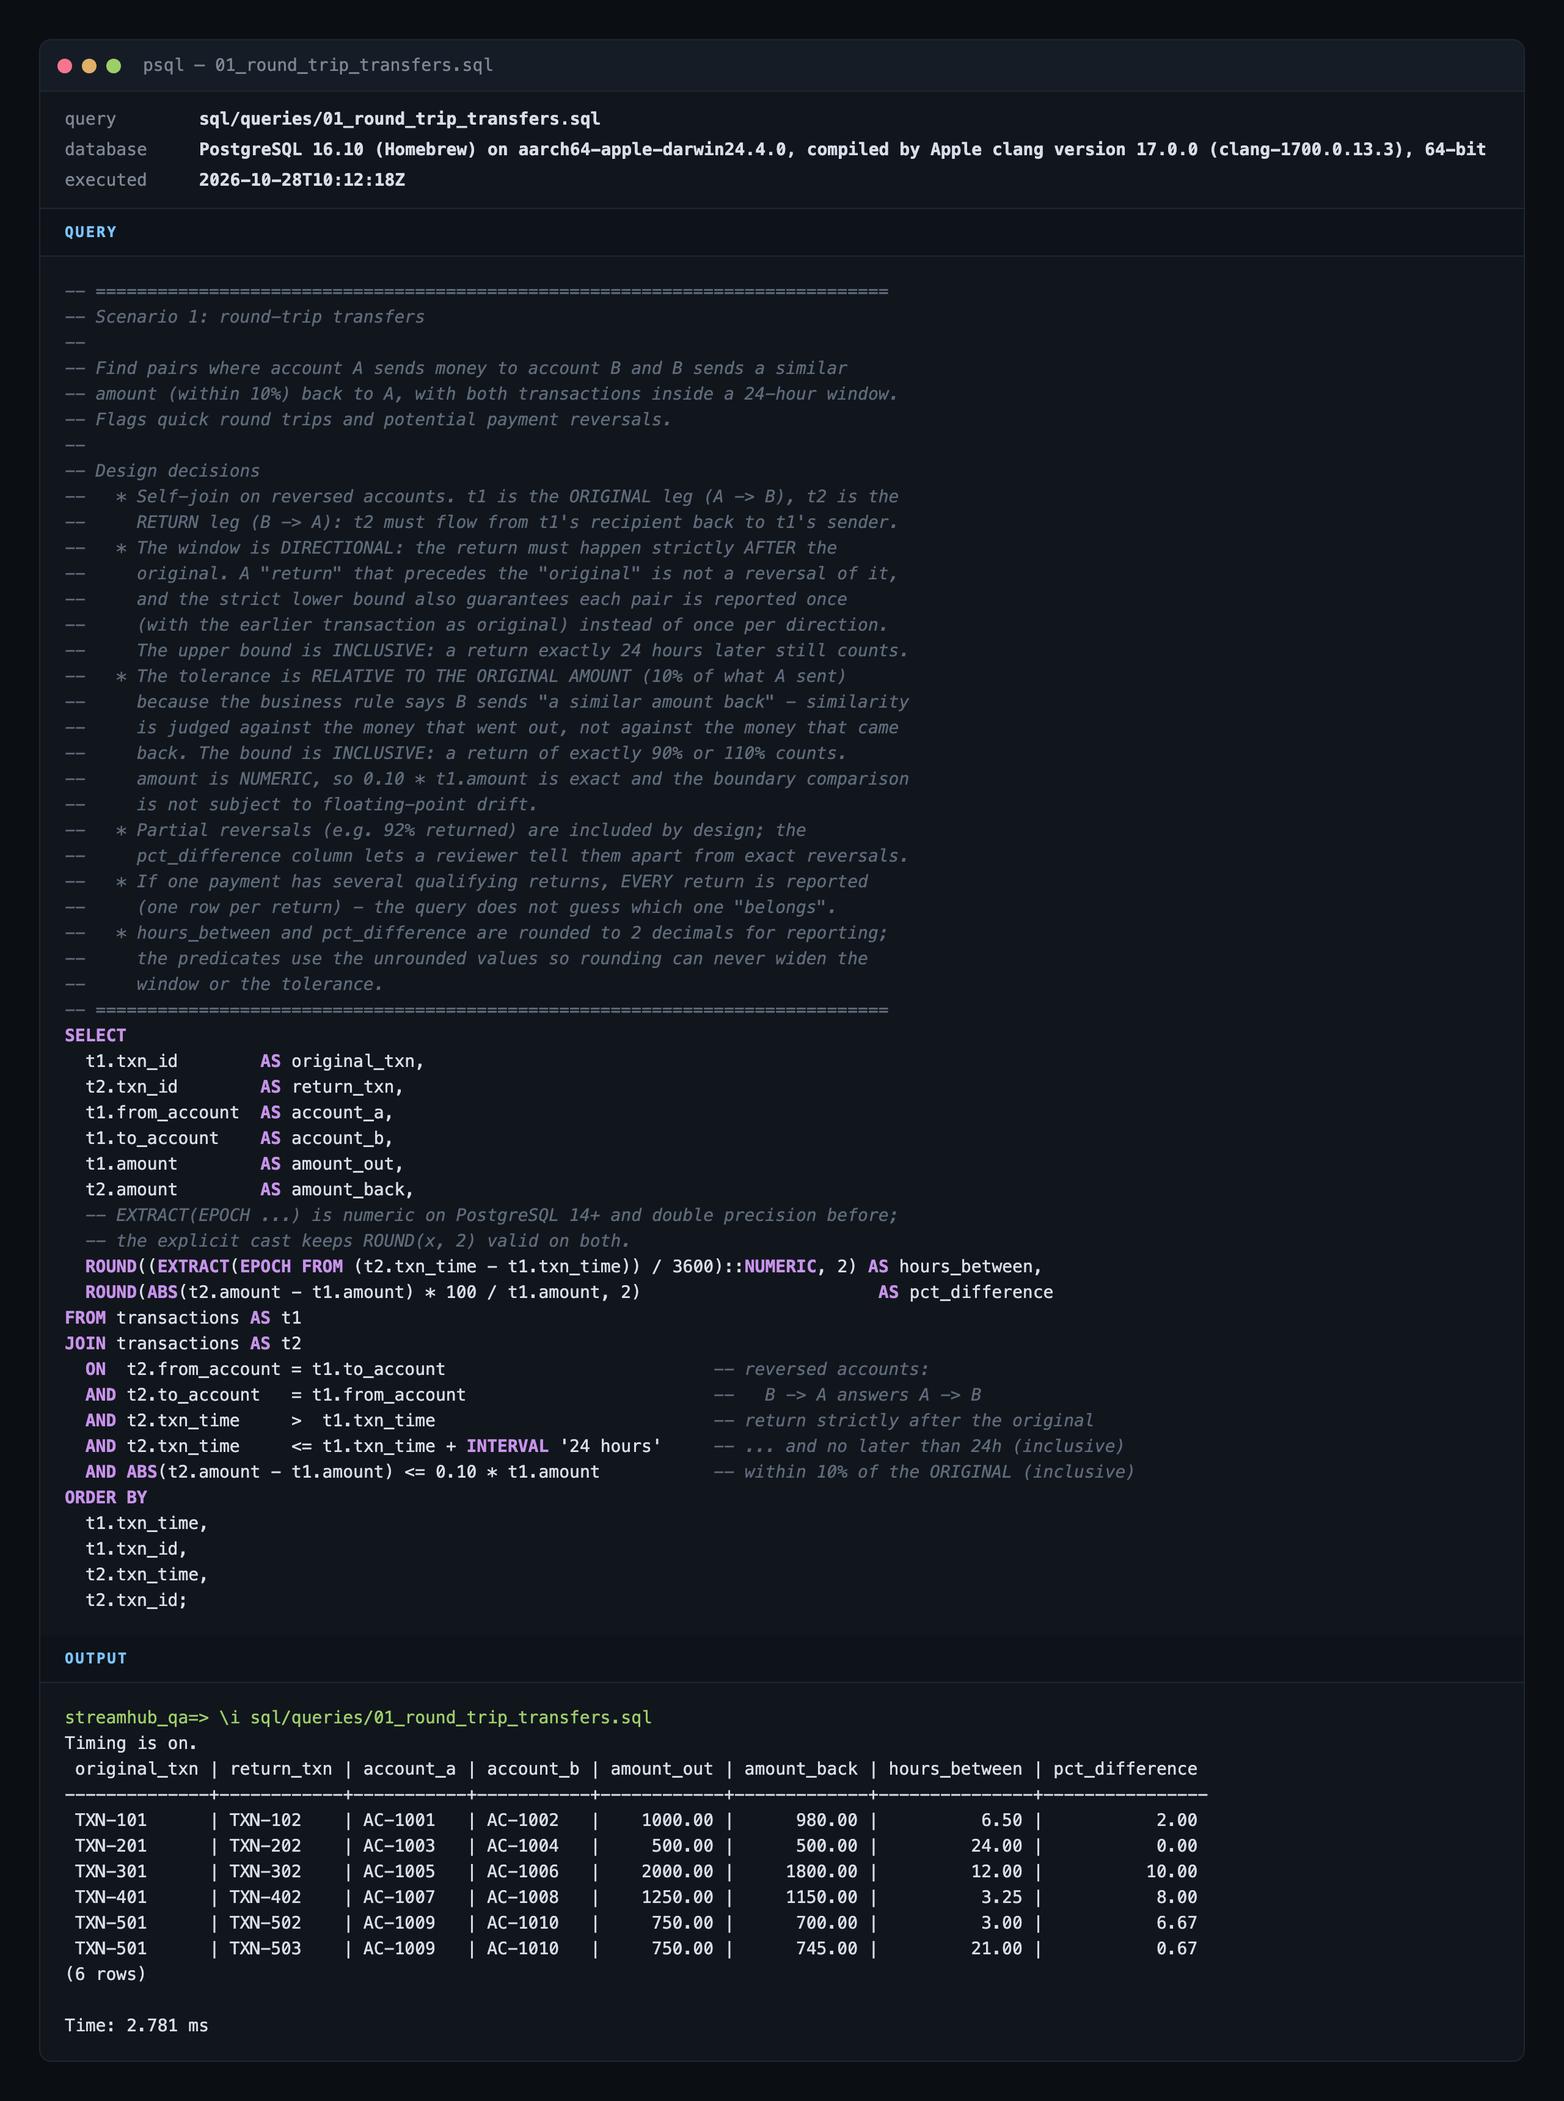
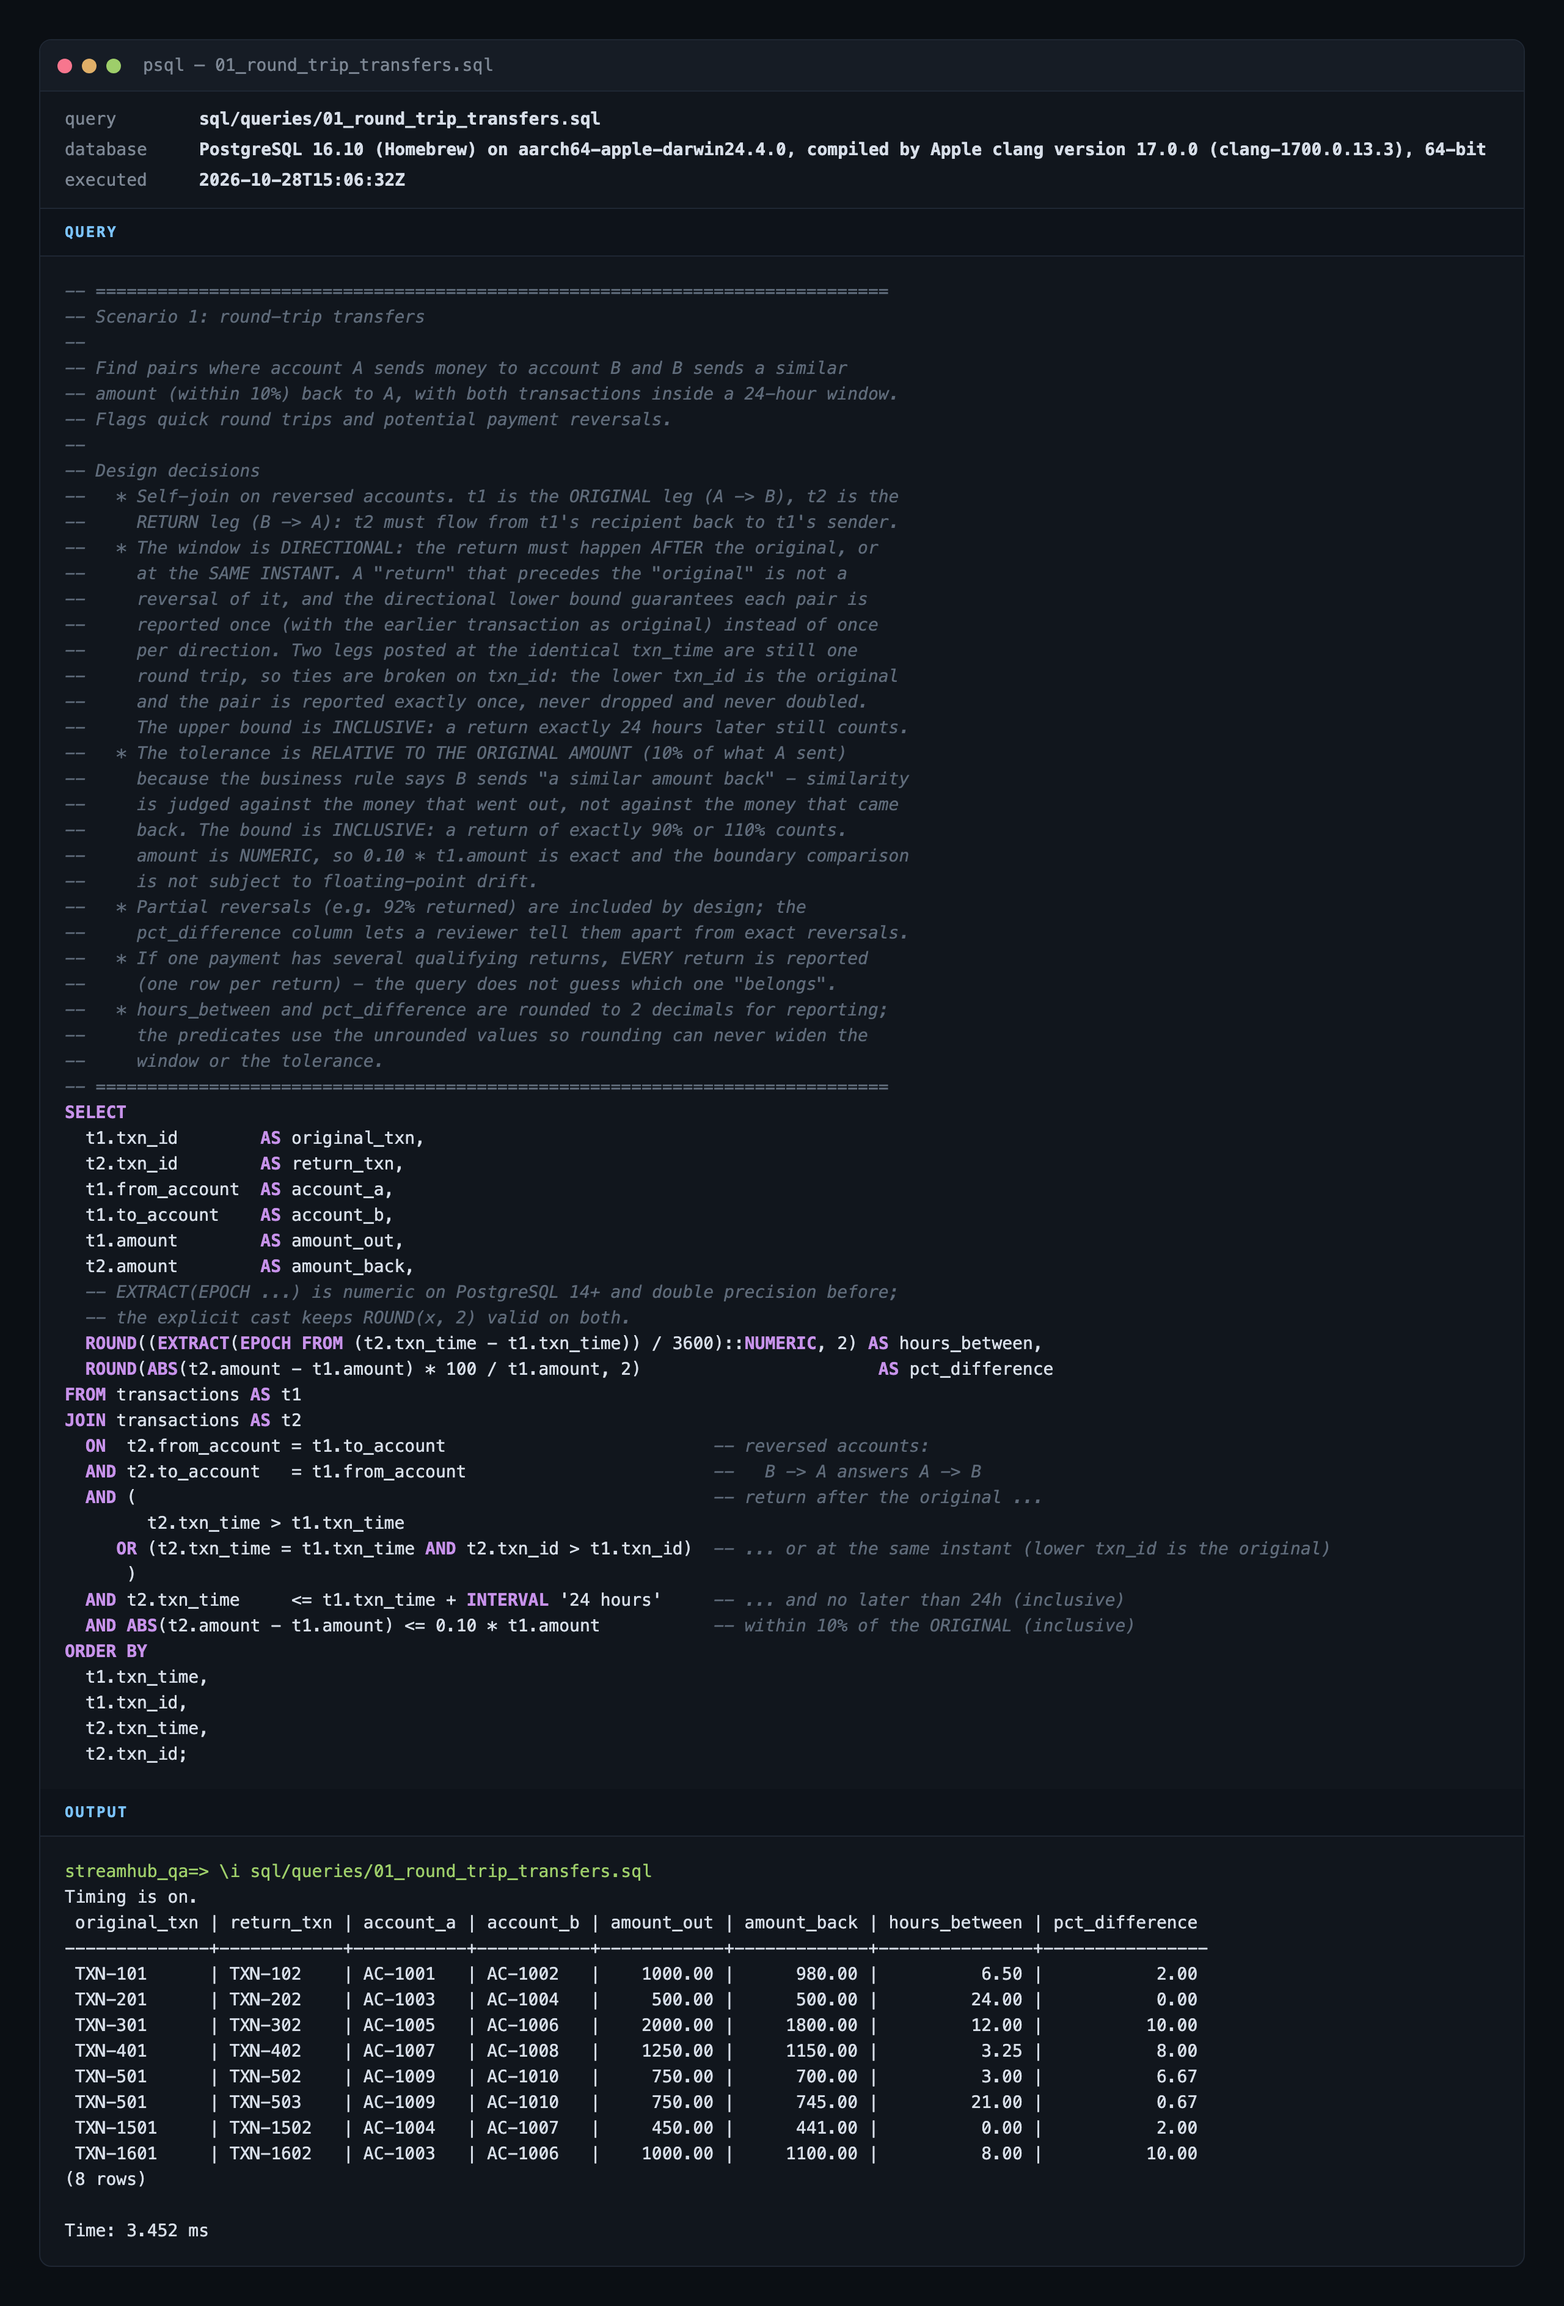
fix(sql): report same-instant round trips once and cover the over-return bound
Tie-break simultaneous legs on txn_id, add seed cases for same-instant and exactly-110% returns
plus a 10.001% decoy, check the business rule against the raw ledger, and probe Postgres over TCP
in the compose healthcheck.

diff --git a/tests/steps/sql/round-trip-transfers.steps.ts b/tests/steps/sql/round-trip-transfers.steps.ts
@@ -2,12 +2,79 @@ import { DataTable, Then } from '@cucumber/cucumber';
 import { expect } from '@playwright/test';
 import { CustomWorld } from '../../support/world';
 import { cellText, expectRowsToEqualTable, recallResult, rowsWhere } from './query-result';
+import type { ResultRow } from './sql-files';
 
 /** Exact integer arithmetic on '1234.56' style amounts, so the tolerance check cannot suffer float drift. */
-function toCents(amount: unknown): number {
+function toCents(amount: unknown): bigint {
   const text = cellText(amount);
   if (!/^\d+\.\d{2}$/.test(text)) throw new Error(`Expected an amount with two decimals, got "${text}"`);
-  return Number(text.replace('.', ''));
+  return BigInt(text.replace('.', ''));
+}
+
+/** One leg of a reported pair, read straight from the transactions table rather than from the query output. */
+interface LedgerLeg {
+  txnId: string;
+  /** txn_time as PostgreSQL prints it, for failure messages. */
+  txnTime: string;
+  /** txn_time as whole microseconds since the epoch - PostgreSQL's full precision, compared exactly as a bigint. */
+  txnTimeMicros: bigint;
+  /** amount as the exact NUMERIC text ('1100.10'); never parsed into a float. */
+  amount: string;
+}
+
+const MICROS_PER_HOUR = 3_600_000_000n;
+
+/**
+ * Second, independent query: fetch the raw ledger rows behind every txn_id the query reported.
+ * The business rule is then re-applied to these values in the steps below, so a rounding or
+ * display error in the query's own hours_between / pct_difference columns cannot mask a
+ * pair that breaks the window or the tolerance.
+ */
+async function loadLedgerLegs(world: CustomWorld, rows: ResultRow[]): Promise<Map<string, LedgerLeg>> {
+  const ids = [...new Set(rows.flatMap((row) => [cellText(row.original_txn), cellText(row.return_txn)]))];
+  const { rows: legs } = await world.getDb().query<{
+    txn_id: string;
+    txn_time: string;
+    txn_time_micros: string;
+    amount: string;
+  }>(
+    `SELECT txn_id,
+            txn_time::text                                    AS txn_time,
+            (EXTRACT(EPOCH FROM txn_time) * 1000000)::BIGINT  AS txn_time_micros,
+            amount::text                                      AS amount
+       FROM transactions
+      WHERE txn_id = ANY($1::text[])`,
+    [ids],
+  );
+  const byId = new Map(
+    legs.map((leg) => [
+      leg.txn_id,
+      {
+        txnId: leg.txn_id,
+        txnTime: leg.txn_time,
+        txnTimeMicros: BigInt(leg.txn_time_micros),
+        amount: leg.amount,
+      },
+    ]),
+  );
+  for (const id of ids) {
+    if (!byId.has(id)) throw new Error(`Reported transaction ${id} does not exist in the transactions table`);
+  }
+  return byId;
+}
+
+interface LedgerPair {
+  original: LedgerLeg;
+  returned: LedgerLeg;
+}
+
+async function reportedPairsOnLedger(world: CustomWorld): Promise<LedgerPair[]> {
+  const rows = recallResult(world);
+  const legs = await loadLedgerLegs(world, rows);
+  return rows.map((row) => ({
+    original: legs.get(cellText(row.original_txn)) as LedgerLeg,
+    returned: legs.get(cellText(row.return_txn)) as LedgerLeg,
+  }));
 }
 
 Then(
@@ -28,6 +95,17 @@ Then(
   },
 );
 
+/** Every row in which the transaction is EITHER leg - proves a pair is reported once, not once per direction. */
+Then(
+  'the round trips involving transaction {string} should be exactly:',
+  async function (this: CustomWorld, txnId: string, table: DataTable) {
+    const involved = recallResult(this).filter(
+      (row) => cellText(row.original_txn) === txnId || cellText(row.return_txn) === txnId,
+    );
+    expectRowsToEqualTable(involved, table, `round trips in which ${txnId} is either leg`);
+  },
+);
+
 Then(
   'transaction {string} should not appear in the result',
   async function (this: CustomWorld, txnId: string) {
@@ -39,26 +117,33 @@ Then(
 );
 
 Then(
-  'every reported return should happen after its original and within {int} hours',
+  'the raw transactions table should show every reported return posted at or after its original and within {int} hours',
   async function (this: CustomWorld, maxHours: number) {
-    for (const row of recallResult(this)) {
-      const hours = Number(cellText(row.hours_between));
-      expect(hours, `hours_between of ${cellText(row.return_txn)}`).toBeGreaterThan(0);
-      expect(hours, `hours_between of ${cellText(row.return_txn)}`).toBeLessThanOrEqual(maxHours);
+    for (const { original, returned } of await reportedPairsOnLedger(this)) {
+      const gap = returned.txnTimeMicros - original.txnTimeMicros;
+      const where = `${returned.txnId} (${returned.txnTime}) vs its original ${original.txnId} (${original.txnTime})`;
+      expect(gap >= 0n, `${where}: the return must not be posted before the original`).toBe(true);
+      expect(
+        gap <= BigInt(maxHours) * MICROS_PER_HOUR,
+        `${where}: the return must be posted no more than ${maxHours} hours after the original`,
+      ).toBe(true);
     }
   },
 );
 
 Then(
-  'every reported return should be within {int} percent of the original amount',
+  'the raw transactions table should show every reported return within {int} percent of its original amount',
   async function (this: CustomWorld, maxPercent: number) {
-    for (const row of recallResult(this)) {
-      const out = toCents(row.amount_out);
-      const back = toCents(row.amount_back);
-      // |back - out| <= maxPercent% of out, rearranged to stay in integers.
-      expect(Math.abs(back - out) * 100, `tolerance of ${cellText(row.return_txn)}`).toBeLessThanOrEqual(
-        out * maxPercent,
-      );
+    for (const { original, returned } of await reportedPairsOnLedger(this)) {
+      const out = toCents(original.amount);
+      const back = toCents(returned.amount);
+      const diff = back > out ? back - out : out - back;
+      // |back - out| <= maxPercent% of out, rearranged to stay in exact integers (cents * 100).
+      expect(
+        diff * 100n <= out * BigInt(maxPercent),
+        `${returned.txnId} returned ${returned.amount} for ${original.txnId}'s ${original.amount}: ` +
+          `outside the ${maxPercent}% tolerance of the original amount`,
+      ).toBe(true);
     }
   },
 );

diff --git a/sql/README.md b/sql/README.md
@@ -13,7 +13,7 @@ cricket "season" is IPL-style but not real statistics.
 
 Automated coverage: [`tests/features/sql/round-trip-transfers.feature`](../tests/features/sql/round-trip-transfers.feature)
 and [`tests/features/sql/scoring-streaks.feature`](../tests/features/sql/scoring-streaks.feature)
-(`npm run test:sql`, 24 scenarios).
+(`npm run test:sql`, 27 scenarios).
 
 ## Layout
 
@@ -83,10 +83,10 @@ Design notes that matter for the queries:
 | Rule | Decision | Why |
 | --- | --- | --- |
 | Pairing | Self-join `transactions` on reversed accounts: `t2.from = t1.to AND t2.to = t1.from` | "B sends back to A" is the mirror image of "A sends to B" |
-| Window | **Directional**: `t2.txn_time > t1.txn_time AND t2.txn_time <= t1.txn_time + 24h` | A "return" that precedes the "original" is not a reversal of it. The strict lower bound also guarantees each pair is reported **once**, with the earlier transfer as the original, rather than once per direction |
+| Window | **Directional**: `(t2.txn_time > t1.txn_time OR (t2.txn_time = t1.txn_time AND t2.txn_id > t1.txn_id)) AND t2.txn_time <= t1.txn_time + 24h` | A "return" that precedes the "original" is not a reversal of it. The directional lower bound also guarantees each pair is reported **once**, with the earlier transfer as the original, rather than once per direction. Two legs posted at the **identical** `txn_time` are still one round trip: the tie is broken on `txn_id`, so the lower id is the original and the pair is reported exactly once (`hours_between` 0.00) instead of being silently dropped by a strict `>` |
 | Window bound | Inclusive at exactly 24 hours | "Within a 24-hour window" includes the boundary; a return at 24:00:00 counts, at 24:00:01 it does not |
 | Tolerance | `ABS(t2.amount - t1.amount) <= 0.10 * t1.amount`, **relative to the original amount** | "B sends a similar amount back" is judged against what A sent out. Measuring against the return would make the test asymmetric in the wrong direction (see decoy DC-5) |
-| Tolerance bound | Inclusive at exactly 10% | A return of exactly 90% (or 110%) is "within 10%" |
+| Tolerance bound | Inclusive at exactly 10%, on both sides | A return of exactly 90% (RT-3) or exactly 110% (RT-7) is "within 10%"; 89.99% (DC-7) and 110.001% (DC-9) are not |
 | Several returns | Every qualifying return is reported, one row each | The query reports candidates; deciding which return "belongs" to a payment is a separate business rule and would hide data |
 | Rounding | `hours_between` and `pct_difference` are rounded to 2 dp for display only | Predicates use unrounded values, so rounding can never widen the window or tolerance |
 | Order | `ORDER BY t1.txn_time, t1.txn_id, t2.txn_time, t2.txn_id` | Deterministic output for diffing and for the exact-row assertions |
@@ -94,8 +94,9 @@ Design notes that matter for the queries:
 ### Seed cases
 
 Transaction ids encode the case: the hundreds digit is the case number (`TXN-301`/`TXN-302`
-are case RT-3). Every case sits on its own date at least three days from any other, so cases
-cannot pair with each other across the 24-hour window.
+are case RT-3; the numbering runs on through the decoys and the background noise, so RT-6 is
+`TXN-1501`/`TXN-1502`). Every case sits on its own date at least three days from any other, so
+cases cannot pair with each other across the 24-hour window.
 
 **Positives (must be reported)**
 
@@ -106,6 +107,8 @@ cannot pair with each other across the 24-hour window.
 | RT-3 | `TXN-301` -> `TXN-302` | Return **exactly 10% lower** (inclusive tolerance): 2000.00 -> 1800.00 | 12.00 | 10.00 |
 | RT-4 | `TXN-401` -> `TXN-402` | Partial reversal of 92%: 1250.00 -> 1150.00 | 3.25 | 8.00 |
 | RT-5 | `TXN-501` -> `TXN-502`, `TXN-501` -> `TXN-503` | One payment, **two returns** within 24h: both reported | 3.00 / 21.00 | 6.67 / 0.67 |
+| RT-6 | `TXN-1501` -> `TXN-1502` | Both legs posted at the **identical** `txn_time` (450.00 out, 441.00 back): reported once, lower `txn_id` as the original | 0.00 | 2.00 |
+| RT-7 | `TXN-1601` -> `TXN-1602` | Over-return of **exactly 110%** (inclusive tolerance, high side): 1000.00 -> 1100.00 | 8.00 | 10.00 |
 
 **Negatives (decoys - must not be reported)**
 
@@ -119,8 +122,9 @@ cannot pair with each other across the 24-hour window.
 | DC-6 | `TXN-1101`, `TXN-1102`, `TXN-1103` | Chain A -> B -> C -> A within three hours: the money comes back, but no pair of transactions reverses each other |
 | DC-7 | `TXN-1201`, `TXN-1202` | Returned 10.01% lower (just outside the tolerance) |
 | DC-8 | `TXN-1301`, `TXN-1302` | Returned 24 hours and one second later (just outside the window) |
+| DC-9 | `TXN-1701`, `TXN-1702` | Returned 10.001% higher: 1100.10 back for 1000.00 (just outside the tolerance on the high side) |
 
-### Expected result (6 rows)
+### Expected result (8 rows)
 
 ```
  original_txn | return_txn | account_a | account_b | amount_out | amount_back | hours_between | pct_difference
@@ -131,6 +135,8 @@ cannot pair with each other across the 24-hour window.
  TXN-401      | TXN-402    | AC-1007   | AC-1008   |    1250.00 |     1150.00 |          3.25 |           8.00
  TXN-501      | TXN-502    | AC-1009   | AC-1010   |     750.00 |      700.00 |          3.00 |           6.67
  TXN-501      | TXN-503    | AC-1009   | AC-1010   |     750.00 |      745.00 |         21.00 |           0.67
+ TXN-1501     | TXN-1502   | AC-1004   | AC-1007   |     450.00 |      441.00 |          0.00 |           2.00
+ TXN-1601     | TXN-1602   | AC-1003   | AC-1006   |    1000.00 |     1100.00 |          8.00 |          10.00
 ```
 
 ![Round-trip transfers](screenshots/01_round_trip_transfers.png)
@@ -245,7 +251,15 @@ the schema is idempotent).
   state just the columns that matter for the rule it documents.
 - Decoys are a `Scenario Outline` whose `Examples` table names the reason each row must be
   absent, so the report doubles as a specification.
+- `the round trips involving transaction "..." should be exactly:` filters on **either** leg, so
+  the same-instant scenario proves RT-6 is reported once and not once per direction.
+- The "satisfies the business rule on the raw ledger" scenario does not trust the query's own
+  rounded `hours_between` / `pct_difference` (a return at 24h0m17s would render as `24.00`).
+  It runs a second query that joins every reported pair back to `transactions` and re-applies
+  the rule to the raw values: `txn_time` as whole microseconds since the epoch compared as
+  `bigint`, and `amount` as integer cents, so `|back - out| * 100 <= out * 10` is exact.
 - `DATE` columns are read back as literal `YYYY-MM-DD` text (per-query `pg` type parser) rather
   than JS `Date` objects, which avoids the classic off-by-one-day error on non-UTC machines.
 - A mutation check was run while building this: making either boundary exclusive (`<` instead of
-  `<=`) or changing `runs >= 30` to `runs > 30` fails the boundary scenarios.
+  `<=`), reverting the lower bound to a strict `t2.txn_time > t1.txn_time` (RT-6 disappears) or
+  changing `runs >= 30` to `runs > 30` fails the boundary scenarios.
